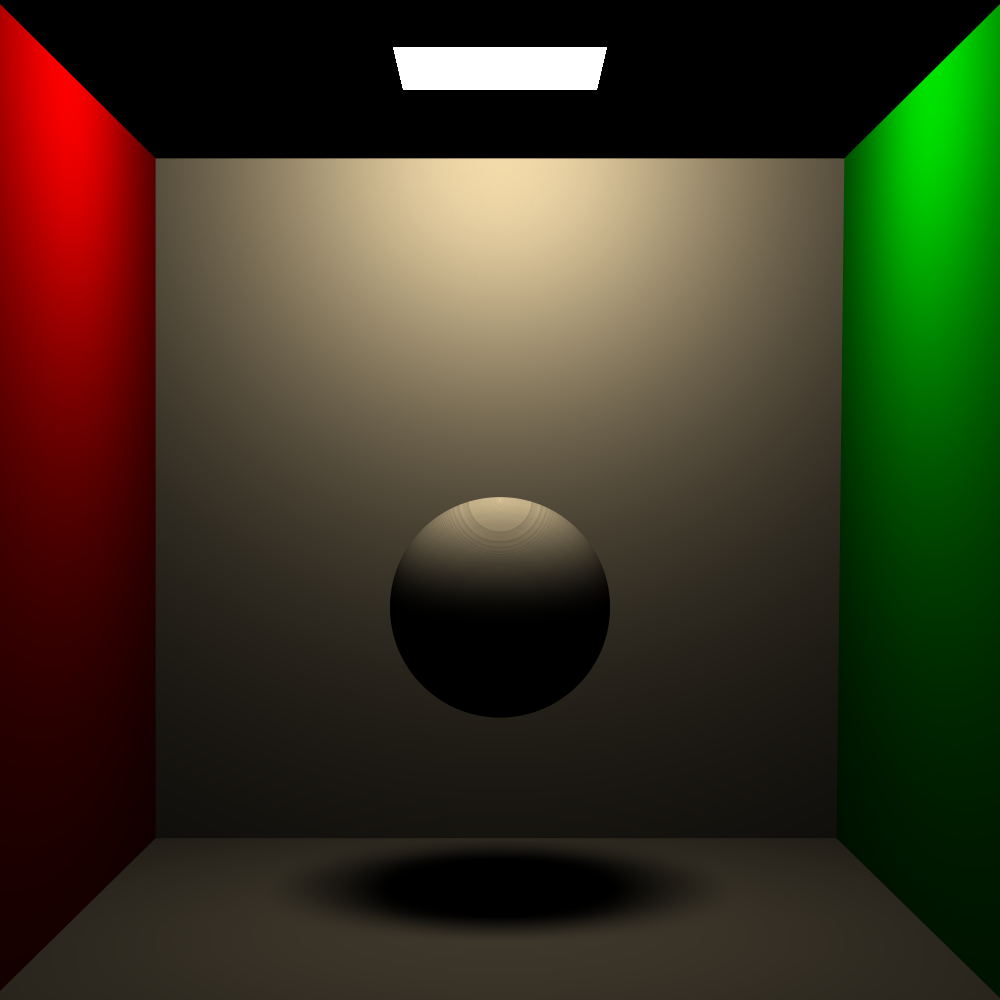
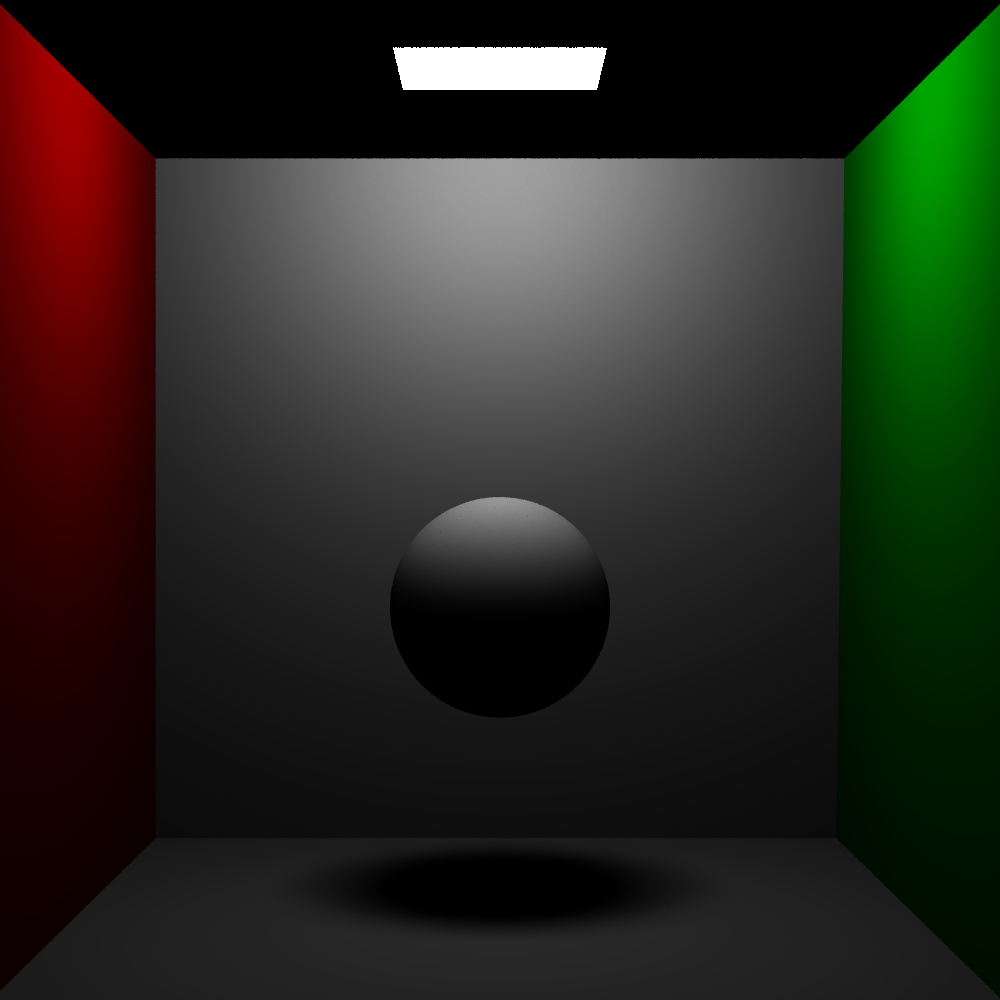
Bug fixes and improved sampling

diff --git a/Cinder/Source/Geometry/Mesh.cpp b/Cinder/Source/Geometry/Mesh.cpp
@@ -115,11 +115,10 @@ float Mesh::GetArea() const
 	return m_Area;
 }
 
-Point Mesh::Sample(Sampler* sampler, float& pdf) const
+Interaction Mesh::Sample(Sampler* sampler, float& pdf) const
 {
 	float s = sampler->Get1D();
-	uint32_t tri = uint32_t(s * m_SampleList.size());
-	if (tri == m_SampleList.size()) { tri--; }
+	uint32_t tri = uint32_t(s * (m_SampleList.size() - 1) + 0.5f);
 
 	pdf = 1.f / m_Area;
 	float d;
@@ -260,19 +259,28 @@ bool Triangle::TestIntersect(const Ray& ray) const
 	return true;
 }
 
-Point Triangle::Sample(Sampler* sampler, float& pdf) const
+Interaction Triangle::Sample(Sampler* sampler, float& pdf) const
 {
 	pdf = 1.f / m_Area;
-	std::pair<float, float> sample = sampler->Get2D();
+	auto sample = sampler->Get2D();
 
-	float u = sample.first;
-	float v = sample.second;
+	float su0 = std::sqrt(sample.first);
+	float u = 1.f - su0;
+	float v = sample.second * su0;
 	float w = 1.f - u - v;
 
 	Vector p0, p1, p2;
-	p0 = Vector(m_V0.Position.X(), m_V0.Position.Y(), m_V0.Position.Z());
-	p1 = Vector(m_V1.Position.X(), m_V1.Position.Y(), m_V1.Position.Z());
-	p2 = Vector(m_V2.Position.X(), m_V2.Position.Y(), m_V2.Position.Z());
+	p0 = m_V0.Position - Point();
+	p1 = m_V1.Position - Point();
+	p2 = m_V2.Position - Point();
 
-	return Point() + BarycentricInterp(u, v, w, p0, p1, p2);
+	Interaction i;
+	i.HitPoint = Point() + BarycentricInterp(u, v, w, p0, p1, p2);
+	i.GNormal = Normal(BarycentricInterp(u, v, w, Vector(m_V0.VNormal), Vector(m_V1.VNormal), Vector(m_V2.VNormal)));
+	i.Tangent = BarycentricInterp(u, v, w, m_V0.Tangent, m_V1.Tangent, m_V2.Tangent);
+	i.Bitangent = BarycentricInterp(u, v, w, m_V0.Bitangent, m_V1.Bitangent, m_V2.Bitangent);
+	i.U = BarycentricInterp(u, v, w, m_V0.U, m_V1.U, m_V2.U);
+	i.V = BarycentricInterp(u, v, w, m_V0.V, m_V1.V, m_V2.V);
+
+	return i;
 }

diff --git a/Cinder/Source/Geometry/Sphere.cpp b/Cinder/Source/Geometry/Sphere.cpp
@@ -24,7 +24,7 @@ bool Sphere::Parse(const YAML::Node& node)
 		return false;
 	}
 
-    m_Bound = Bound(
+	m_Bound = Bound(
 		Point(-m_Radius, -m_Radius, -m_Radius),
 		Point(m_Radius, m_Radius, m_Radius)
 	);
@@ -58,8 +58,8 @@ bool Sphere::Intersect(const Ray& ray, Interaction& interaction) const
 	interaction.HitPoint = hit;
 	interaction.GNormal = Normal(hit - Point()).GetNormalized();
 
-    interaction.Tangent = Cross(Vector(0.f, 1.f, 0.f), hit - Point()).Normalize();
-    interaction.Bitangent = Cross(interaction.Tangent, Vector(interaction.GNormal));
+	interaction.Tangent = Cross(Vector(0.f, 1.f, 0.f), hit - Point()).Normalize();
+	interaction.Bitangent = Cross(interaction.Tangent, Vector(interaction.GNormal));
 
 	return true;
 }
@@ -83,8 +83,26 @@ float Sphere::GetArea() const
 	return m_Area;
 }
 
-Point Sphere::Sample(Sampler* sampler, float& pdf) const
+Interaction Sphere::Sample(Sampler* sampler, float& pdf) const
 {
 	pdf = 1.f / m_Area;
-	return Point() + UniformSampleSphere(sampler->Get2D()) * m_Radius;
+	Interaction i;
+
+	auto sample = sampler->Get2D();
+	float y = 1.f - 2.f * sample.first;
+	float r = std::sqrt(std::max(0.f, 1.f - y * y));
+	float phi = 2 * Pi * sample.second;
+
+	Vector n = Vector(r * std::cos(phi), y, r * std::sin(phi));
+	i.HitPoint = Point() + n * m_Radius;
+	i.GNormal = Normal(n);
+
+	i.Tangent = Cross(Vector(0.f, 1.f, 0.f), n);
+	i.Bitangent = Cross(i.Tangent, Vector(i.GNormal));
+	
+	i.U = phi / (2 * Pi);
+	float theta = std::acos(n.Y());
+	i.V = theta * InversePi;
+
+	return i;
 }

diff --git a/Cinder/Source/Emission/Simple.cpp b/Cinder/Source/Emission/Simple.cpp
@@ -18,15 +18,16 @@ Color SimpleEmission::Evaluate(const Interaction& interaction) const
 
 Color SimpleEmission::Sample(const Interaction& interaction, Sampler* sampler, Vector& incoming, float& pdf, Occlusion& tester) const
 {
-	Point point = Owner->ToCamera(Owner->GetGeometry()->Sample(sampler, pdf));
-	Vector d = point - interaction.HitPoint;
-	Interaction i;
-	if (!Owner->Intersect(Ray(interaction.HitPoint + Vector(interaction.GNormal) * Epsilon, d), i)) { pdf = 0.f; return Color(); }
+	Interaction i = Owner->GetGeometry()->Sample(sampler, pdf);
+	i.HitPoint = Owner->ToCamera(i.HitPoint);
+	i.GNormal = Owner->ToCamera(i.GNormal);
+
+	Vector d = i.HitPoint - interaction.HitPoint;
 	if (Dot(-d, i.GNormal) < 0.f) { pdf = 0.f; return Color(); }
-	incoming = (d).GetNormalized();
+	incoming = d.GetNormalized();
 
 	tester.Point1 = interaction;
-	tester.Point2.HitPoint = point;
+	tester.Point2 = i;
 
 	return m_Color / d.GetLengthSquare();
 }

diff --git a/Cinder/Source/Geometry/Mesh.h b/Cinder/Source/Geometry/Mesh.h
@@ -28,7 +28,7 @@ public:
 
 	virtual const std::vector<Geometry*>& GetSubGeometry() override { return m_Sub; }
 
-	virtual Point Sample(Sampler* sampler, float& pdf) const override;
+	virtual Interaction Sample(Sampler* sampler, float& pdf) const override;
 
 private:
 	std::vector<Geometry*> m_Sub;
@@ -55,7 +55,7 @@ public:
 
 	virtual const std::vector<Geometry*>& GetSubGeometry() override { return m_Sub; }
 	
-	virtual Point Sample(Sampler* sampler, float& pdf) const override;
+	virtual Interaction Sample(Sampler* sampler, float& pdf) const override;
 
 private:
 	friend class Triangle;

diff --git a/Cinder/Source/Core/Math/Sampling.cpp b/Cinder/Source/Core/Math/Sampling.cpp
@@ -33,11 +33,3 @@ float CosineHemispherePdf(float cos)
 {
 	return cos * InversePi;
 }
-
-Vector UniformSampleSphere(const std::pair<float, float>& sample)
-{
-	float z = 1.f - 2.f * sample.first;
-	float r = std::sqrt(std::max(0.f, 1.f - z * z));
-	float phi = 2 * Pi * sample.second;
-	return Vector(r * std::cos(phi), r * std::sin(phi), z);
-}

diff --git a/Cinder/Source/Geometry/Sphere.h b/Cinder/Source/Geometry/Sphere.h
@@ -18,7 +18,7 @@ public:
 
 	virtual const std::vector<Geometry*>& GetSubGeometry() override { return m_Sub; }
 
-	virtual Point Sample(Sampler* sampler, float& pdf) const override;
+	virtual Interaction Sample(Sampler* sampler, float& pdf) const override;
 
 private:
 	float m_Radius = 0.f;

diff --git a/Cinder/Source/Core/Math/Sampling.h b/Cinder/Source/Core/Math/Sampling.h
@@ -6,5 +6,3 @@ Point ConcentricSampleDisk(const std::pair<float, float>& sample);
 
 Vector CosineSampleHemisphere(const std::pair<float, float>& sample);
 float CosineHemispherePdf(float cos);
-
-Vector UniformSampleSphere(const std::pair<float, float>& sample);

diff --git a/Cinder/Source/Core/Scene/Geometry.h b/Cinder/Source/Core/Scene/Geometry.h
@@ -29,7 +29,7 @@ public:
 
 	virtual const std::vector<Geometry*>& GetSubGeometry() = 0;
 
-	virtual Point Sample(Sampler* sampler, float& pdf) const = 0;
+	virtual Interaction Sample(Sampler* sampler, float& pdf) const = 0;
 
 	std::string Name;
 };

diff --git a/Cinder/Source/Core/Scene/Interaction.h b/Cinder/Source/Core/Scene/Interaction.h
@@ -6,7 +6,7 @@
 class Object;
 class BSDF;
 
-constexpr float Epsilon = 0.001f;
+constexpr float Epsilon = 0.002f;
 
 class Interaction
 {

diff --git a/Content/Renders/README.md b/Content/Renders/README.md
@@ -10,4 +10,4 @@ Blender's Suzanne, rendered in 4K with 8 samples per pixel, in 16 minutes on the
 
 ### Soft shadows:
 ![](Render3.png)
-Cornell Box at a resolution of 1000x1000. Rendered in 43 minutes on the same hardware.
+Cornell Box at a resolution of 1000x1000. Rendered in 2 min, 45 sec on the same hardware.
